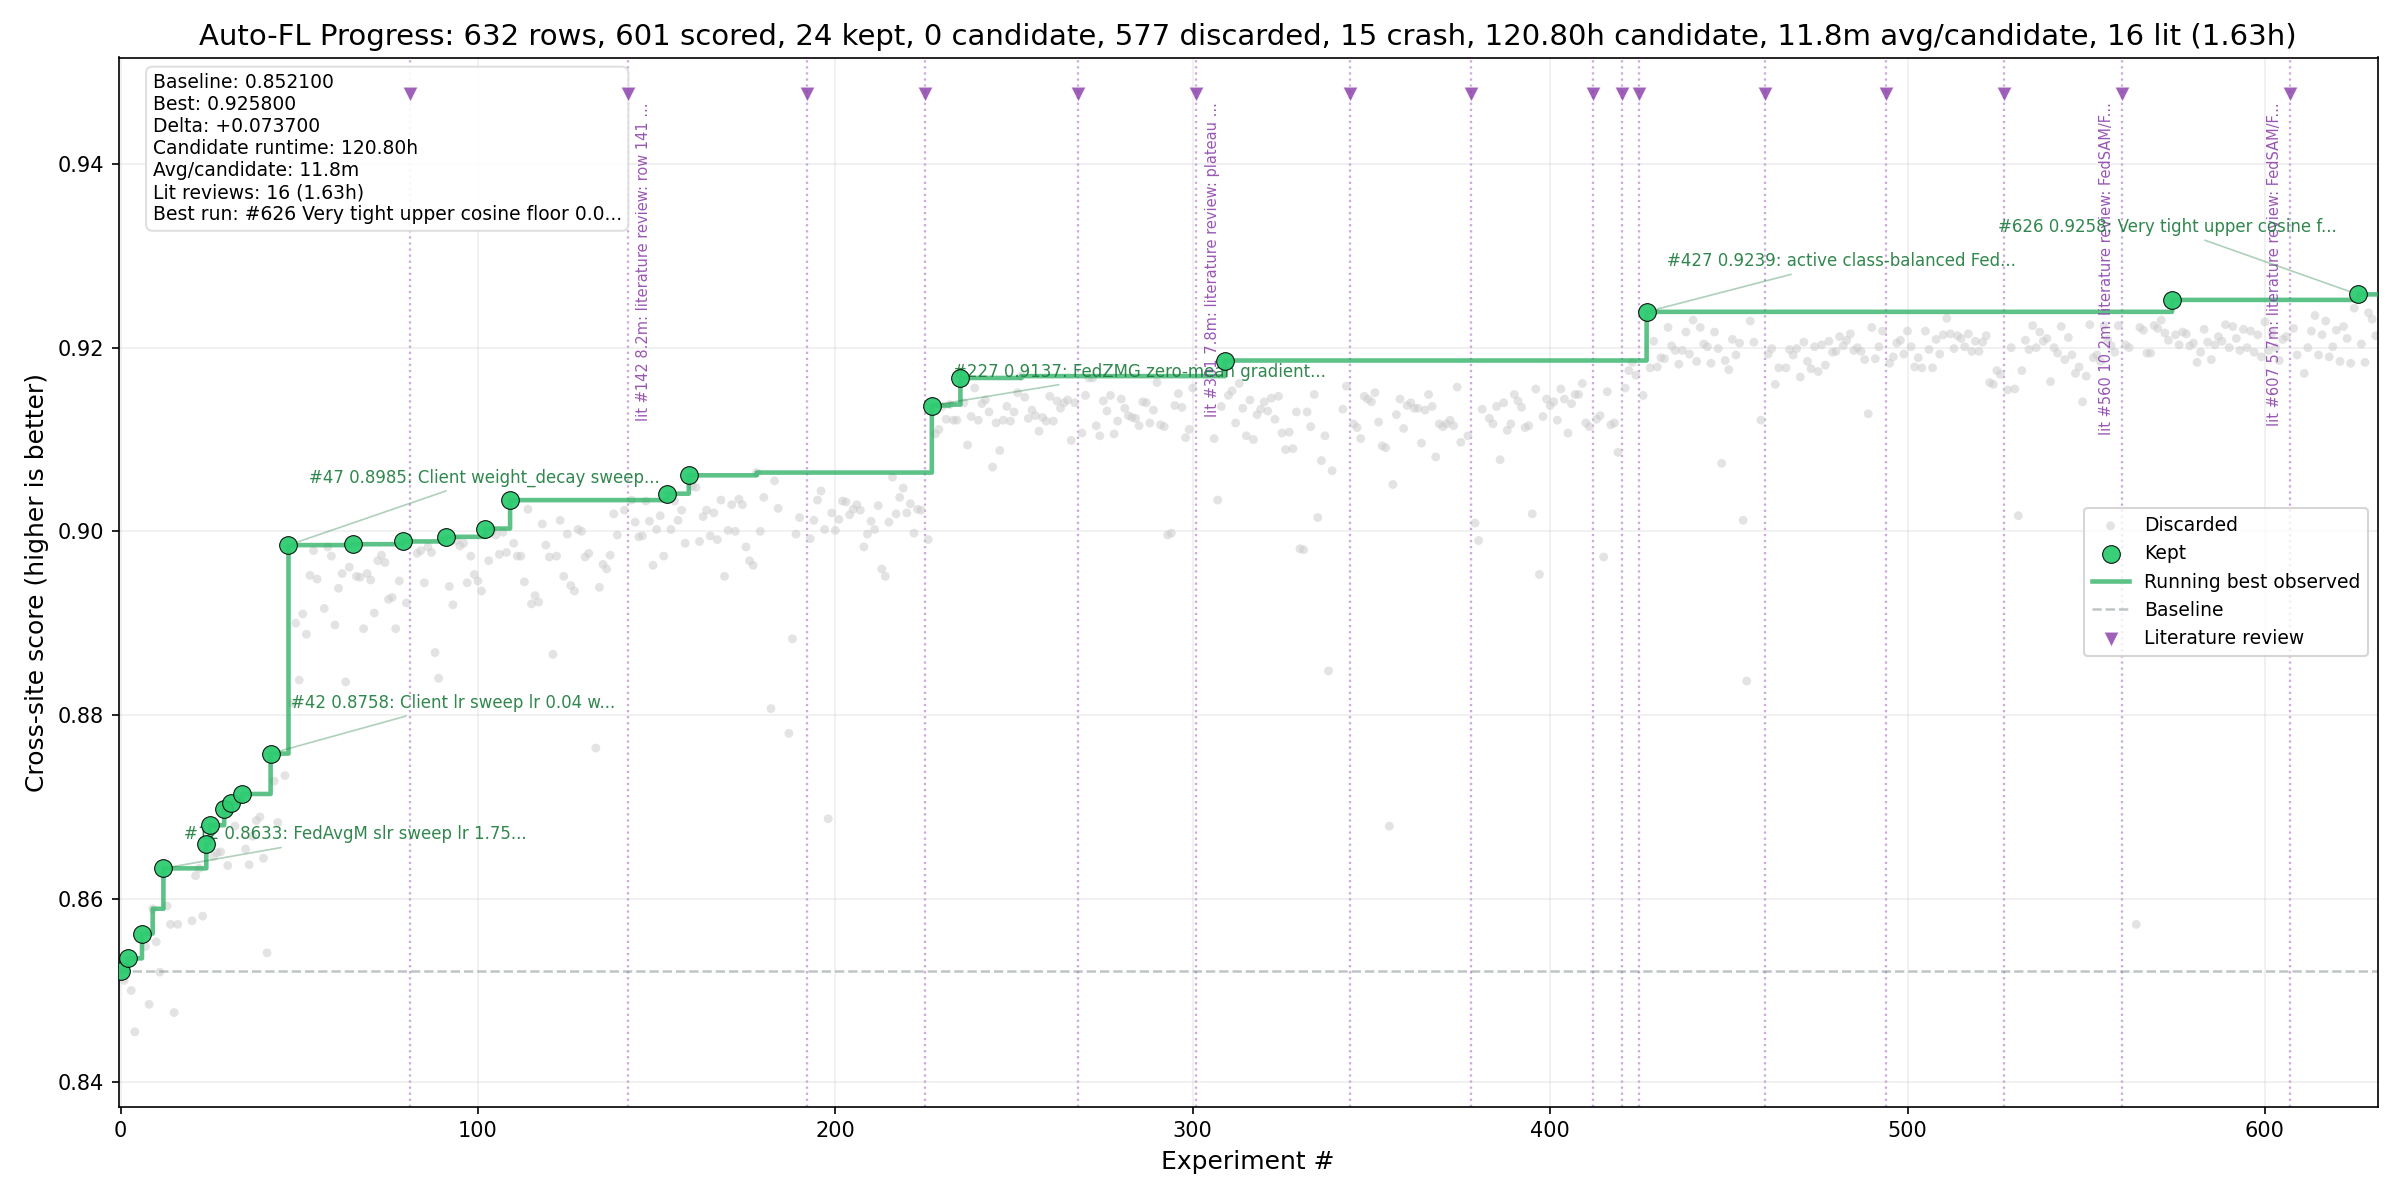
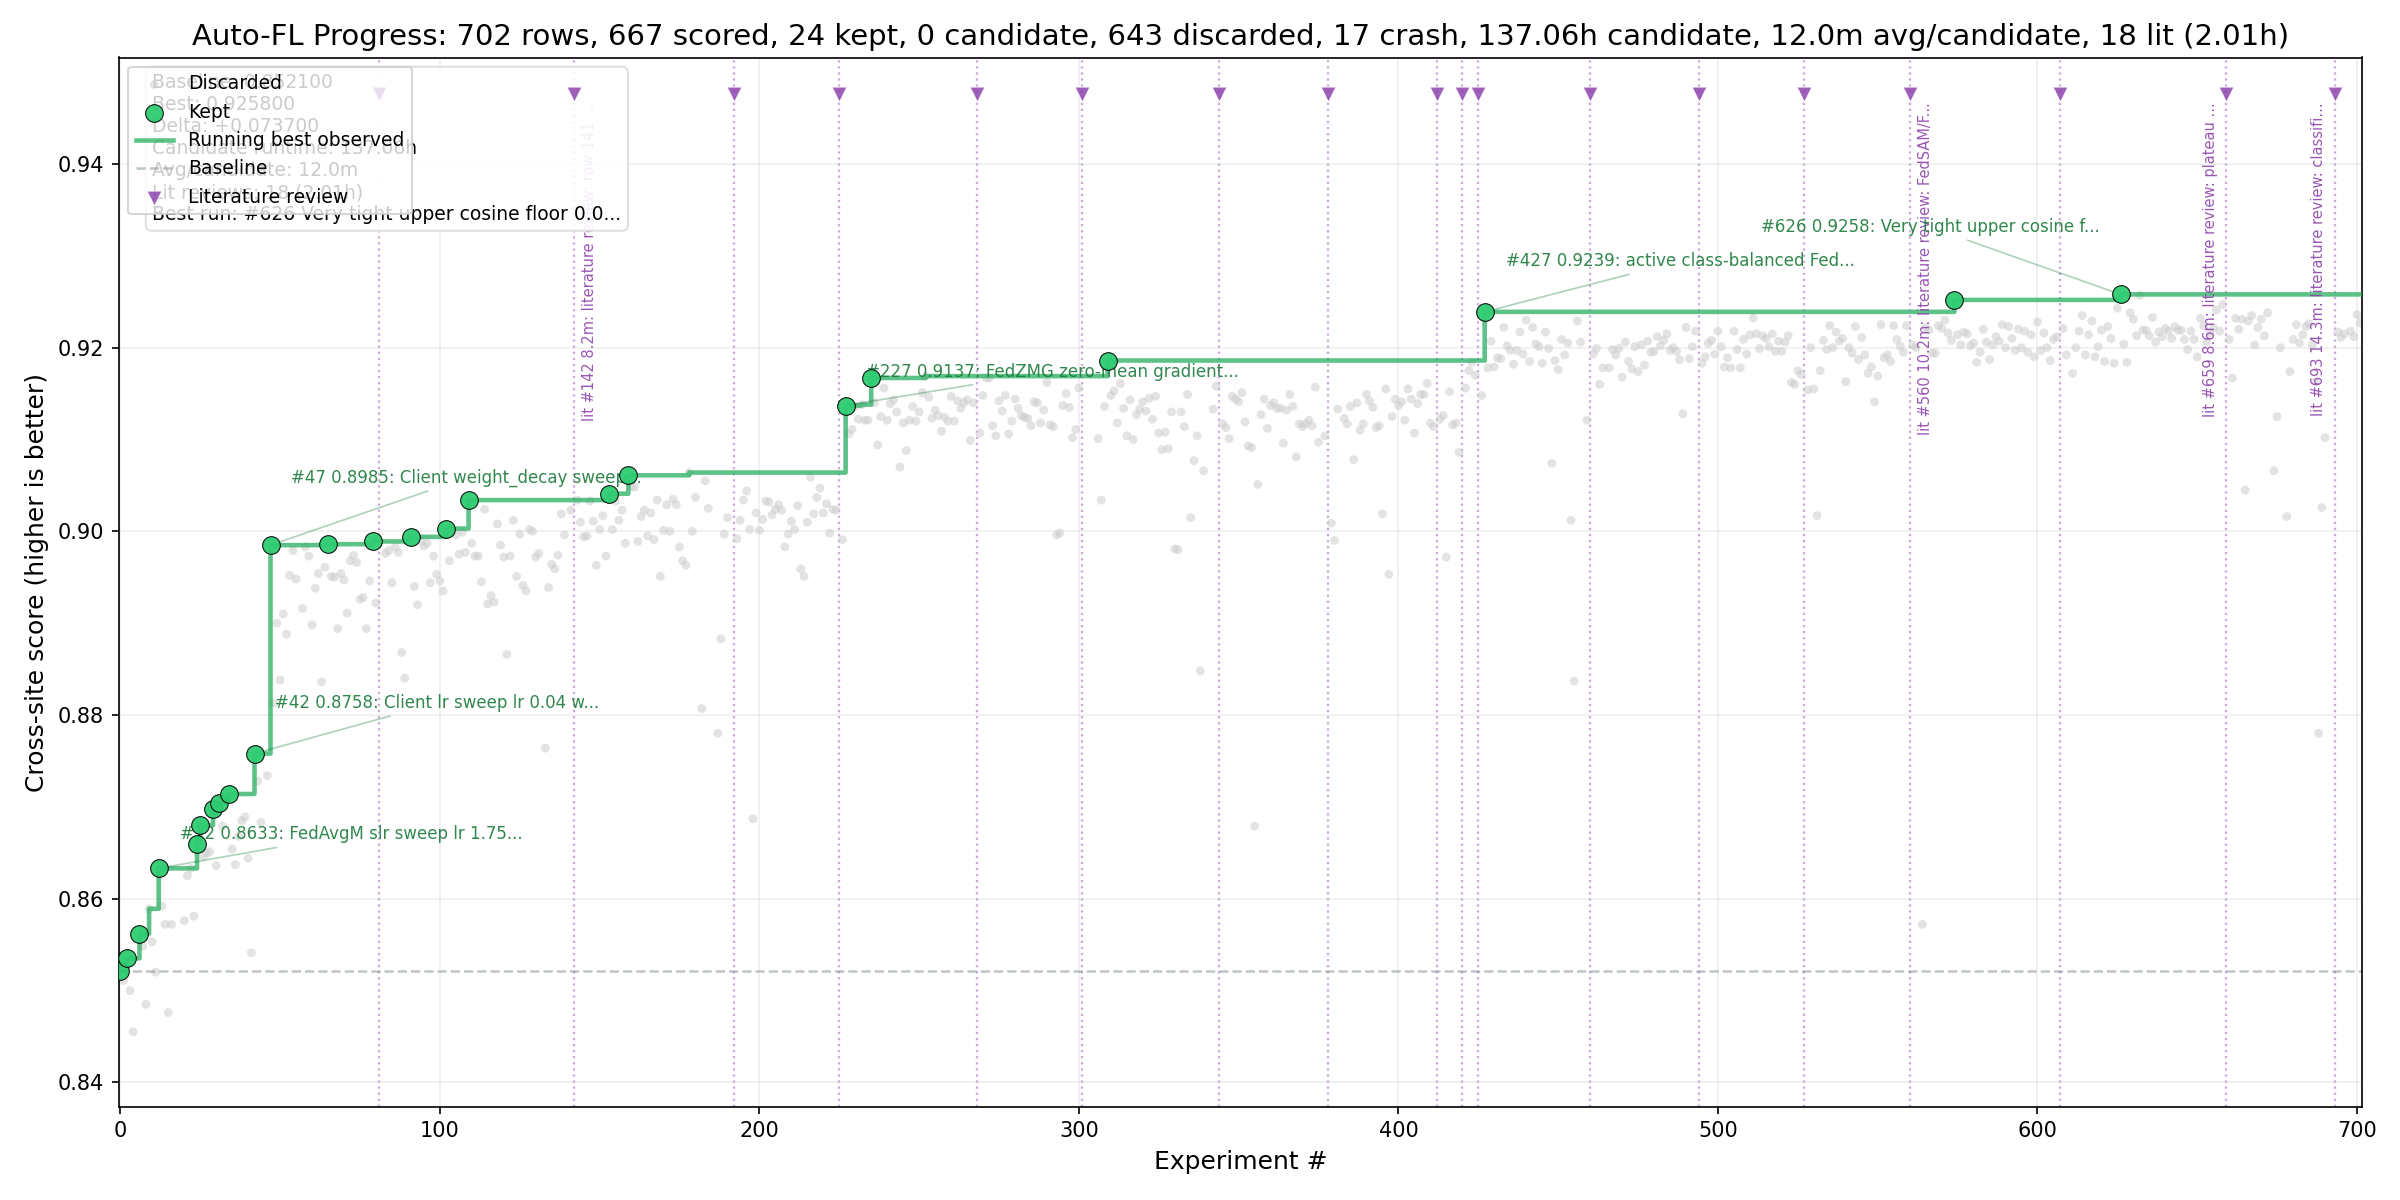
Add autoresearch campaign report

diff --git a/research/auto-fl-research/reports/autoresearch-h100-algocal-20260507-autoresearch-report.md b/research/auto-fl-research/reports/autoresearch-h100-algocal-20260507-autoresearch-report.md
@@ -2,14 +2,14 @@
 
 ## Executive Summary
 
-- **Branch:** `autoresearch/h100-algocal-20260507` at `4d933cdc5`
-- **Rows analyzed:** 632 total, 616 scored
+- **Branch:** `autoresearch/h100-algocal-20260507` at `516f45501`
+- **Rows analyzed:** 702 total, 684 scored
 - **Best score:** 0.925800 at experiment `#626`
 - **Baseline:** 0.852100 at experiment `#0`
 - **Lift:** +0.073700 absolute, 8.6% relative
-- **Runtime cost:** 122.42h aggregate; 11.6m average over 632 timed candidates
-- **Agent model/effort:** Agent model output, optional: GPT-5.5 Agent effort output, optional: xhigh
-- **Agent/tooling cost:** Agent cost telemetry unavailable; no agent cost output was pasted. Experiment runtime cost is reported from results.tsv.
+- **Runtime cost:** 139.07h aggregate; 11.9m average over 702 timed candidates
+- **Agent model/effort:** Agent model output: GPT-5.5; Agent effort output: xhigh.
+- **Agent/tooling cost:** Agent cost telemetry was unavailable; no cost output was pasted. Experiment runtime cost is reported from results.tsv.
 - **Best status:** `keep`; treat as needing reproduction unless independently repeated or marked `keep`.
 
 - **Progress plot:** `progress.png`
@@ -61,12 +61,12 @@ Major running-best milestones, selected by first/last and largest score jumps:
 
 | metric | value |
 | --- | --- |
-| total aggregate runtime | 122.42h |
-| average runtime per timed candidate | 11.6m |
-| timed candidates | 632 |
+| total aggregate runtime | 139.07h |
+| average runtime per timed candidate | 11.9m |
+| timed candidates | 702 |
 | candidate rows | 0 |
 | kept rows | 24 |
-| crash rows | 15 |
+| crash rows | 17 |
 
 The runtime total is aggregate candidate runtime from `runtime_seconds`, not wall-clock elapsed campaign time.
 
@@ -77,7 +77,7 @@ The runtime total is aggregate candidate runtime from `runtime_seconds`, not wal
 Agent model and effort context provided for this report:
 
 ```text
-Agent model output, optional: GPT-5.5  Agent effort output, optional: xhigh
+Agent model output: GPT-5.5; Agent effort output: xhigh.
 ```
 
 ### Agent / Tooling Cost
@@ -85,7 +85,7 @@ Agent model output, optional: GPT-5.5  Agent effort output, optional: xhigh
 Agent/tooling cost context provided for this report:
 
 ```text
-Agent cost telemetry unavailable; no agent cost output was pasted. Experiment runtime cost is reported from results.tsv.
+Agent cost telemetry was unavailable; no cost output was pasted. Experiment runtime cost is reported from results.tsv.
 ```
 
 ### Crash / Failure Notes
@@ -135,6 +135,7 @@ Agent cost telemetry unavailable; no agent cost output was pasted. Experiment ru
 | Li20 FedProx; Qu22 FedSAM ICML | 7 | 0.921700 | FedProx mu 1e-5 under kept FedSAM rho 0.05 stack [src: Li20 FedProx; ... | server momentum, server diff amplification, FedProx/client drift regularization, weight decay | helped |
 | Li21 FedRS KDD:10.1145/3447548.3467254 | 1 | 0.901200 | FedRS restricted softmax alpha 0.5 on active FedAvgM FedProx stack [s... | server momentum, server diff amplification, FedProx/client drift regularization, weight decay | helped |
 | Li25 FedWMSAM | 1 | 0.920000 | Late-cosine SAM rho schedule max 0.10 under kept FedAvgM stack [src: ... | server momentum, server diff amplification, FedProx/client drift regularization, weight decay | helped |
+| Liang21 R-Drop NeurIPS | 1 | 0.000000 | R-Drop alpha 0.1 on active FedSAM/FedAvgM high-water stack [src: Lian... | server momentum, server diff amplification, FedProx/client drift regularization, weight decay | not confirmed |
 | Muller19 LabelSmoothing arXiv:1906.02629; Szegedy16 Inception arXiv:1512.00567 | 1 | 0.912600 | Label smoothing 0.05 under class-balanced FedZMG stack [src: Muller19... | server momentum, server diff amplification, FedProx/client drift regularization, label smoothing, weight decay | helped |
 | Muller19 label smoothing NeurIPS | 2 | 0.904400 | Label smoothing 0.05 on active FedAvgM FedProx stack [src: Muller19 l... | server momentum, server diff amplification, FedProx/client drift regularization, label smoothing, weight decay | helped |
 | Qu22 FedSAM | 6 | 0.925200 | SAM radius 0.0725 tight upper-shoulder interpolation under kept FedSA... | server momentum, server diff amplification, FedProx/client drift regularization, weight decay | helped |
@@ -149,6 +150,8 @@ Agent cost telemetry unavailable; no agent cost output was pasted. Experiment ru
 | Reddi21 FedOpt; Li20 FedProx | 4 | 0.922400 | Lower server momentum with lower FedProx mu near-miss pairing under k... | server momentum, server diff amplification, FedProx/client drift regularization, weight decay | helped |
 | Reddi21 FedOpt; Qu22 FedSAM ICML | 4 | 0.922500 | Lower server momentum with higher SAM radius near-miss pairing under ... | server momentum, server diff amplification, FedProx/client drift regularization, weight decay | helped |
 | Sarkar20 Fed-Focal arXiv:2011.06283; Lin17 Focal arXiv:1708.02002 | 4 | 0.910100 | Focal loss gamma 1.0 retry at width 2 on FedZMG high-floor stack [src... | server momentum, server diff amplification, FedProx/client drift regularization, weight decay | helped |
+| Shi23 FedDecorr arXiv:2210.00226 | 1 | 0.920900 | FedDecorr coef 0.1 on active FedSAM/FedAvgM high-water stack [src: Sh... | server momentum, server diff amplification, FedProx/client drift regularization, weight decay | helped |
+| Son24 FedUV CVPR | 2 | 0.921700 | FedUV classifier variance coef 1.25 on active FedSAM/FedAvgM stack [s... | server momentum, server diff amplification, FedProx/client drift regularization, weight decay | helped |
 | Sun23 FedSMOO arXiv:2305.11584; Li20 FedProx MLSys; Qu22 FedSAM ICML | 1 | 0.919000 | Dynamic cosine-decay FedProx mu 1e-4 under kept FedSAM stack [src: Su... | server momentum, server diff amplification, FedProx/client drift regularization, weight decay | helped |
 | Wang20 FedNova NeurIPS | 2 | 0.900900 | FedNova normalized aggregation on class-balanced FedZMG stack [src: W... | server momentum, server diff amplification, FedProx/client drift regularization, weight decay | helped |
 | Wang20 FedNova arXiv:2007.07481; Reddi21 FedOpt arXiv:2003.00295 | 1 | 0.899100 | FedNova-style step-normalized FedAvgM on active FedProx stack [src: W... | server momentum, server diff amplification, FedProx/client drift regularization, weight decay | helped |
@@ -156,6 +159,7 @@ Agent cost telemetry unavailable; no agent cost output was pasted. Experiment ru
 | Yoon21 FedMix arXiv:2107.00233; Sang24 mixup-noise arXiv:2409.13235; Zhang17 mixup arXiv:1710.09412 | 1 | 0.914800 | Local mixup alpha 0.2 on kept FedZMG stack [src: Yoon21 FedMix arXiv:... | server momentum, server diff amplification, FedProx/client drift regularization, weight decay | helped |
 | Zantalis26 FedZMG arXiv:2602.18384 | 61 | 0.916900 | Scheduler eta-min factor 0.00015 tight check around FedZMG floor near... | server momentum, server diff amplification, FedProx/client drift regularization, weight decay | helped |
 | Zhang18 mixup arXiv:1710.09412; Yoon21 FedMix arXiv:2107.00233 | 1 | 0.912200 | Local mixup alpha 0.2 under class-balanced FedZMG stack [src: Zhang18... | server momentum, server diff amplification, FedProx/client drift regularization, weight decay | helped |
+| Zhang19 Lookahead arXiv:1907.08610 | 1 | 0.916700 | Lookahead k=5 alpha=0.5 on active FedSAM/FedAvgM high-water stack [sr... | server momentum, server diff amplification, FedProx/client drift regularization, weight decay | helped |
 | Zhang21 clipping arXiv:2106.13673 | 5 | 0.916700 | Update clipping norm 45 on kept FedZMG stack [src: Zhang21 clipping a... | server momentum, server diff amplification, FedProx/client drift regularization, gradient clipping, weight decay | helped |
 | Zhang22 FedLC arXiv:2209.00189 | 1 | 0.899200 | FedLC logit calibration tau 0.5 on active FedAvgM FedProx stack [src:... | server momentum, server diff amplification, FedProx/client drift regularization, weight decay | helped |
 | Zhao22 GNP; Sun23 FedSpeed | 2 | 0.922100 | Gradient-norm SAM blend 0.5 on active FedSAM/FedAvgM high-water stack... | server momentum, server diff amplification, FedProx/client drift regularization, weight decay | helped |
@@ -188,23 +192,23 @@ Source refs are extracted from `[src: ...]` markers in `results.tsv` description
 
 | status | rows |
 | --- | --- |
-| crash | 15 |
-| discard | 577 |
+| crash | 17 |
+| discard | 643 |
 | keep | 24 |
-| literature | 16 |
+| literature | 18 |
 
 ### Top Scored Rows
 
 | rank | experiment | score | runtime | status | description |
 | --- | --- | --- | --- | --- | --- |
 | 1 | #626 | 0.925800 | 14.3m | keep | Very tight upper cosine floor 0.0001625 interpolation on active FedSAM/FedAvgM high-w... |
-| 2 | #574 | 0.925200 | 14.4m | keep | SAM radius 0.0725 tight upper-shoulder interpolation under kept FedSAM/FedAvgM stack ... |
-| 3 | #625 | 0.924300 | 14.4m | discard | Tight upper cosine floor 0.000175 interpolation on active FedSAM/FedAvgM high-water s... |
-| 4 | #427 | 0.923900 | 14.3m | keep | active class-balanced FedZMG stack plus FedSAM rho 0.05 [src: Qu22 FedSAM ICML; Foret... |
-| 5 | #629 | 0.923800 | 14.3m | discard | Post-improvement lower FedAvgM server momentum 0.47421875 interpolation on active cos... |
-| 6 | #614 | 0.923500 | 14.4m | discard | Tight lower SAM rho 0.0721875 interpolation on active FedSAM/FedAvgM high-water stack |
-| 7 | #511 | 0.923200 | 14.4m | discard | Class-balanced beta 0.86875 lower-side bracket under kept FedSAM/FedAvgM stack [src: ... |
-| 8 | #630 | 0.923100 | 14.4m | discard | Post-improvement upper FedAvgM server momentum 0.47578125 interpolation on active cos... |
-| 9 | #440 | 0.923000 | 14.3m | discard | Class-balanced beta 0.875 under kept FedSAM rho 0.05 stack [src: Cui19 CBLoss; Qu22 F... |
-| 10 | #571 | 0.923000 | 14.3m | discard | Class-balanced beta 0.89375 tight upper interpolation under kept FedSAM/FedAvgM stack... |
+| 2 | #632 | 0.925700 | 14.3m | discard | Post-improvement upper client momentum 0.92578125 interpolation on active cosine-floo... |
+| 3 | #574 | 0.925200 | 14.4m | keep | SAM radius 0.0725 tight upper-shoulder interpolation under kept FedSAM/FedAvgM stack ... |
+| 4 | #658 | 0.924700 | 17.9m | discard | Post-improvement schema-max exact local_train_steps 1000 under active cosine-floor hi... |
+| 5 | #625 | 0.924300 | 14.4m | discard | Tight upper cosine floor 0.000175 interpolation on active FedSAM/FedAvgM high-water s... |
+| 6 | #656 | 0.924100 | 14.4m | discard | Post-improvement near-miss combo server_lr 1.800390625 lower server_momentum 0.474218... |
+| 7 | #427 | 0.923900 | 14.3m | keep | active class-balanced FedZMG stack plus FedSAM rho 0.05 [src: Qu22 FedSAM ICML; Foret... |
+| 8 | #629 | 0.923800 | 14.3m | discard | Post-improvement lower FedAvgM server momentum 0.47421875 interpolation on active cos... |
+| 9 | #672 | 0.923800 | 13.6m | discard | Noisy subcampaign deterministic-off training on active FedSAM/FedAvgM high-water stack |
+| 10 | #700 | 0.923600 | 14.3m | discard | Client weight power 0.5 FedAvgM on active FedSAM/FedAvgM high-water stack |
 
